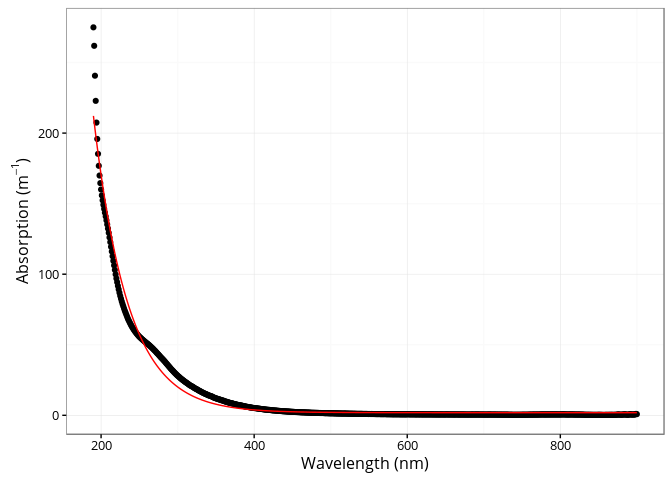
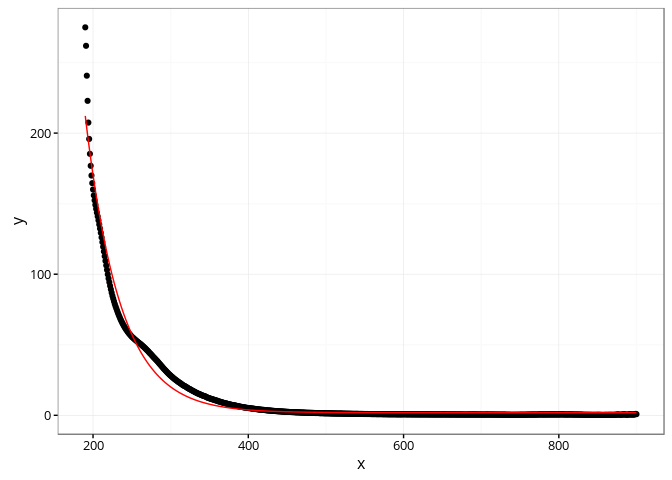
added S3 method for the exponential fit

diff --git a/README.md b/README.md
@@ -53,11 +53,12 @@ fit <- cdom_exponential(wl = spectra$wavelength,
                        startwl = 190,
                        endwl = 900)
 
-ggplot(spectra, aes(x = wavelength, y = spc3)) +
-  geom_point() +
-  geom_line(aes(y = fit$data$.fitted), col = "red") +
-  xlab("Wavelength (nm)") +
-  ylab(expression(paste("Absorption (", m ^ {-1}, ")")))
+coef(fit)
+##          S          K         a0 
+## 0.02220677 1.85125099 6.02460455
+
+p <- plot(fit)
+p
 ```
 
 ![](inst/images/README-exponential-1.png)

diff --git a/NEWS.md b/NEWS.md
@@ -1,7 +1,10 @@
 # cdom 0.1.1 (Unreleased)
 
 - `cdom_fit_exponential()` has been renamed to `cdom_exponential()`.
-- Now using `purrr:safely()` to safely fit non-linear model.
+
+- All fitting functions are now using `purrr:safely()` to safely fit non-linear models.
+
+- Implemented S3 funnctions `coef()`, `predict()` and `plot()` for object returned by `cdom_exponential()`. 
  
 # cdom 0.1.0
 
